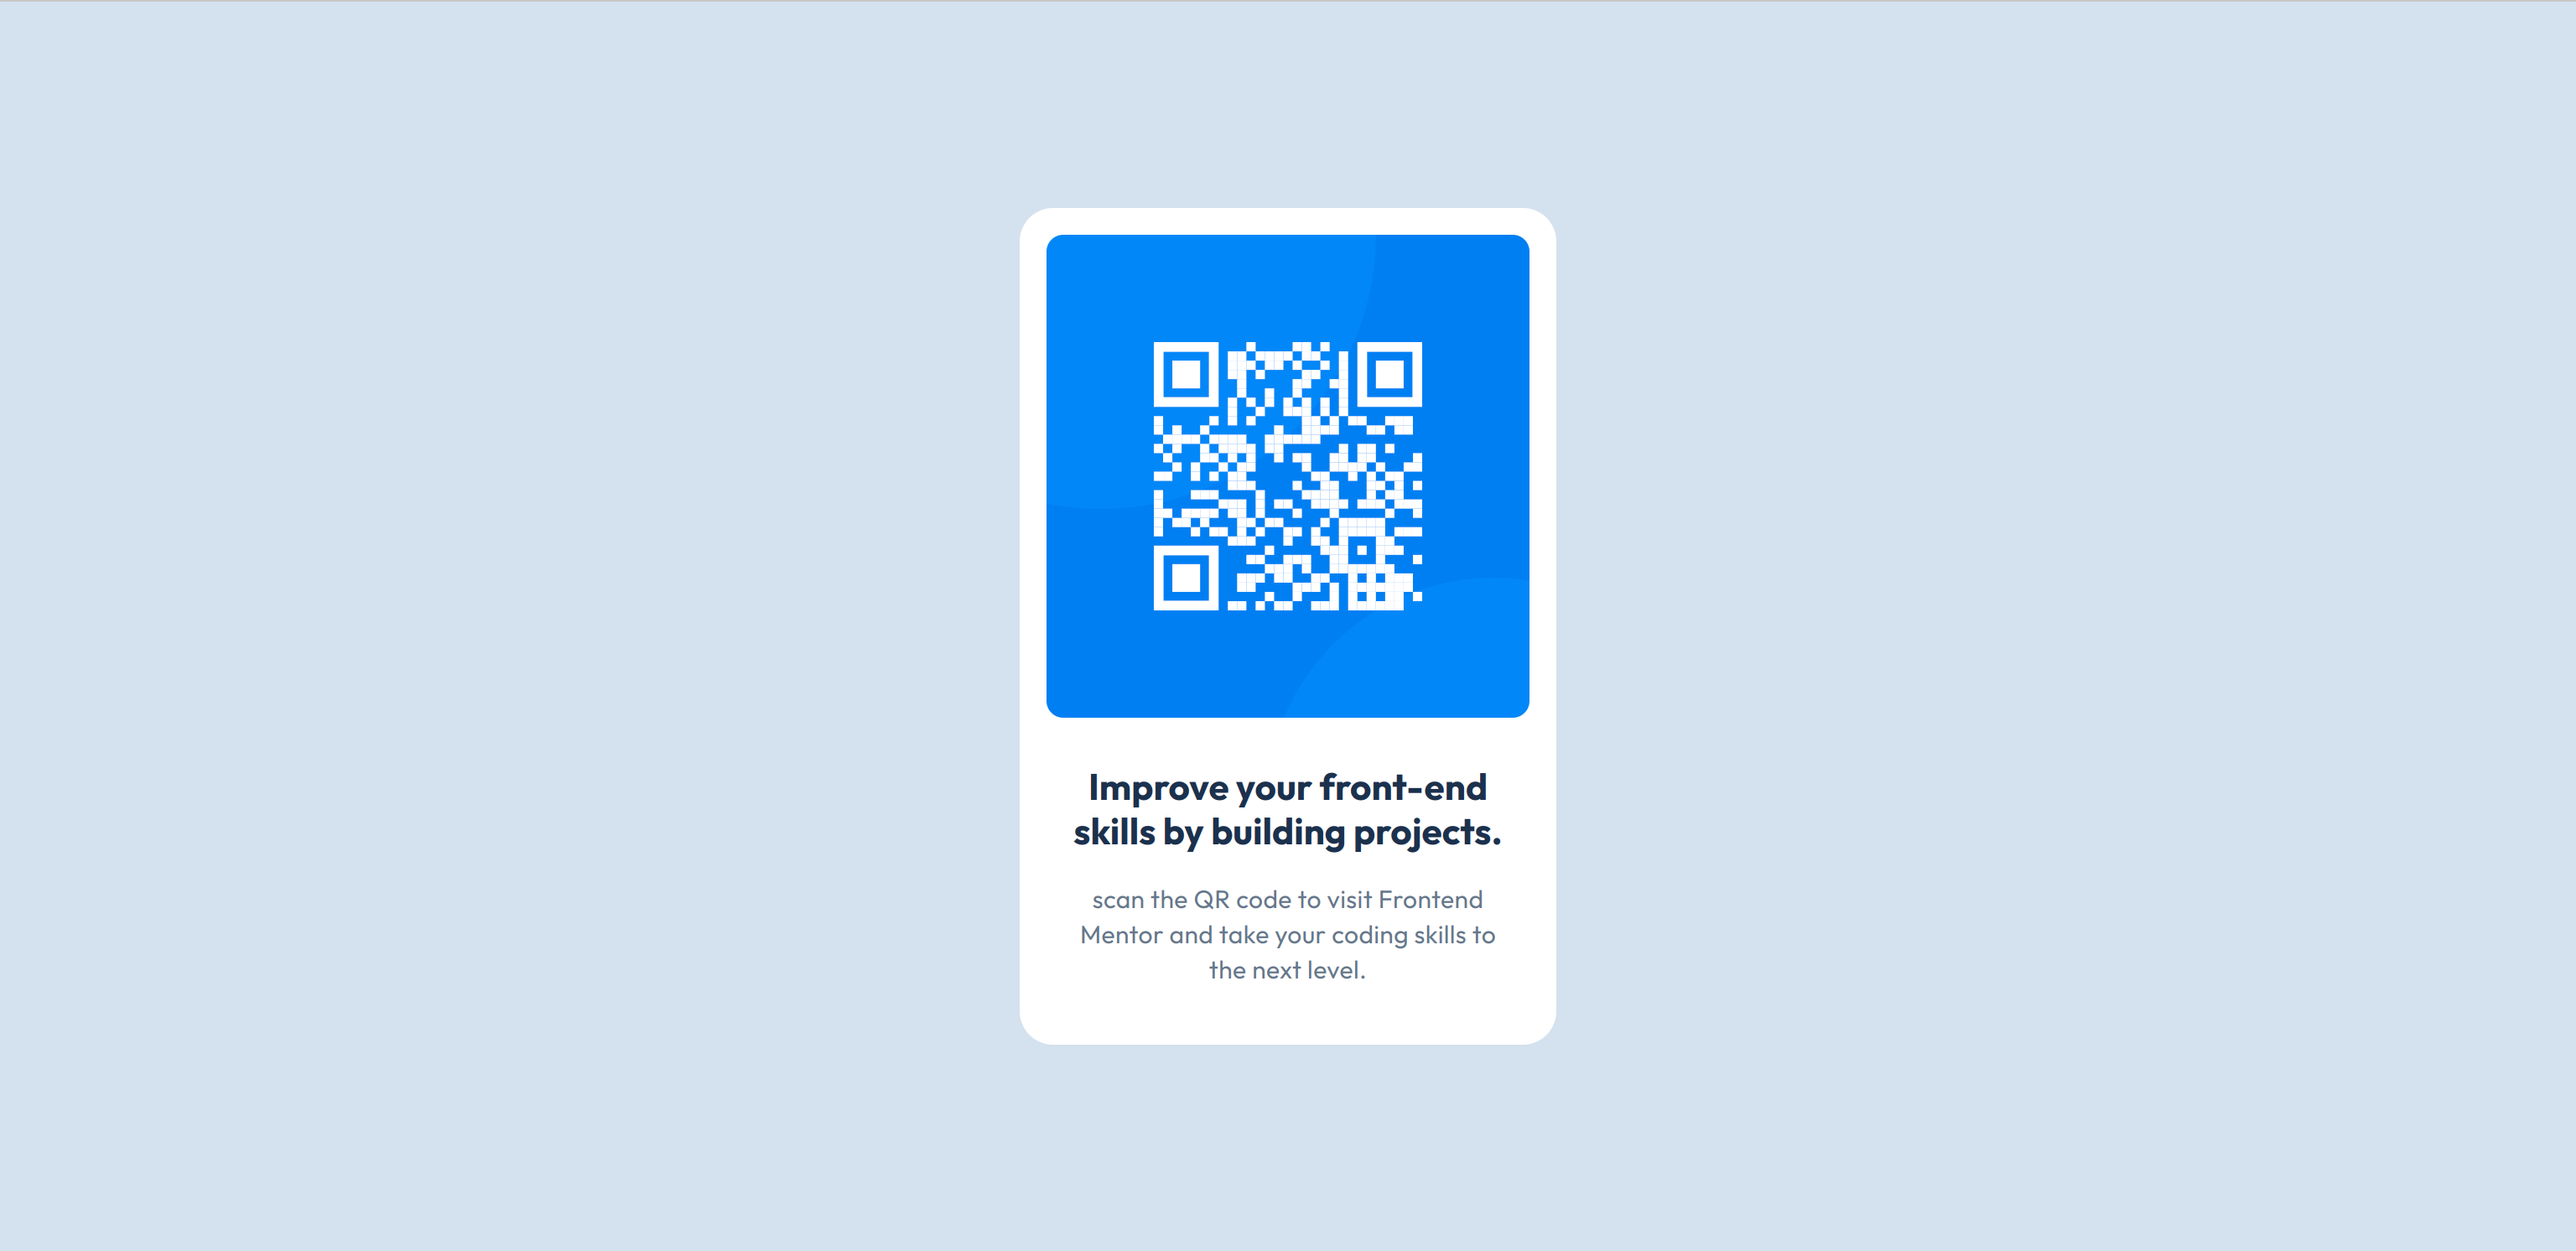
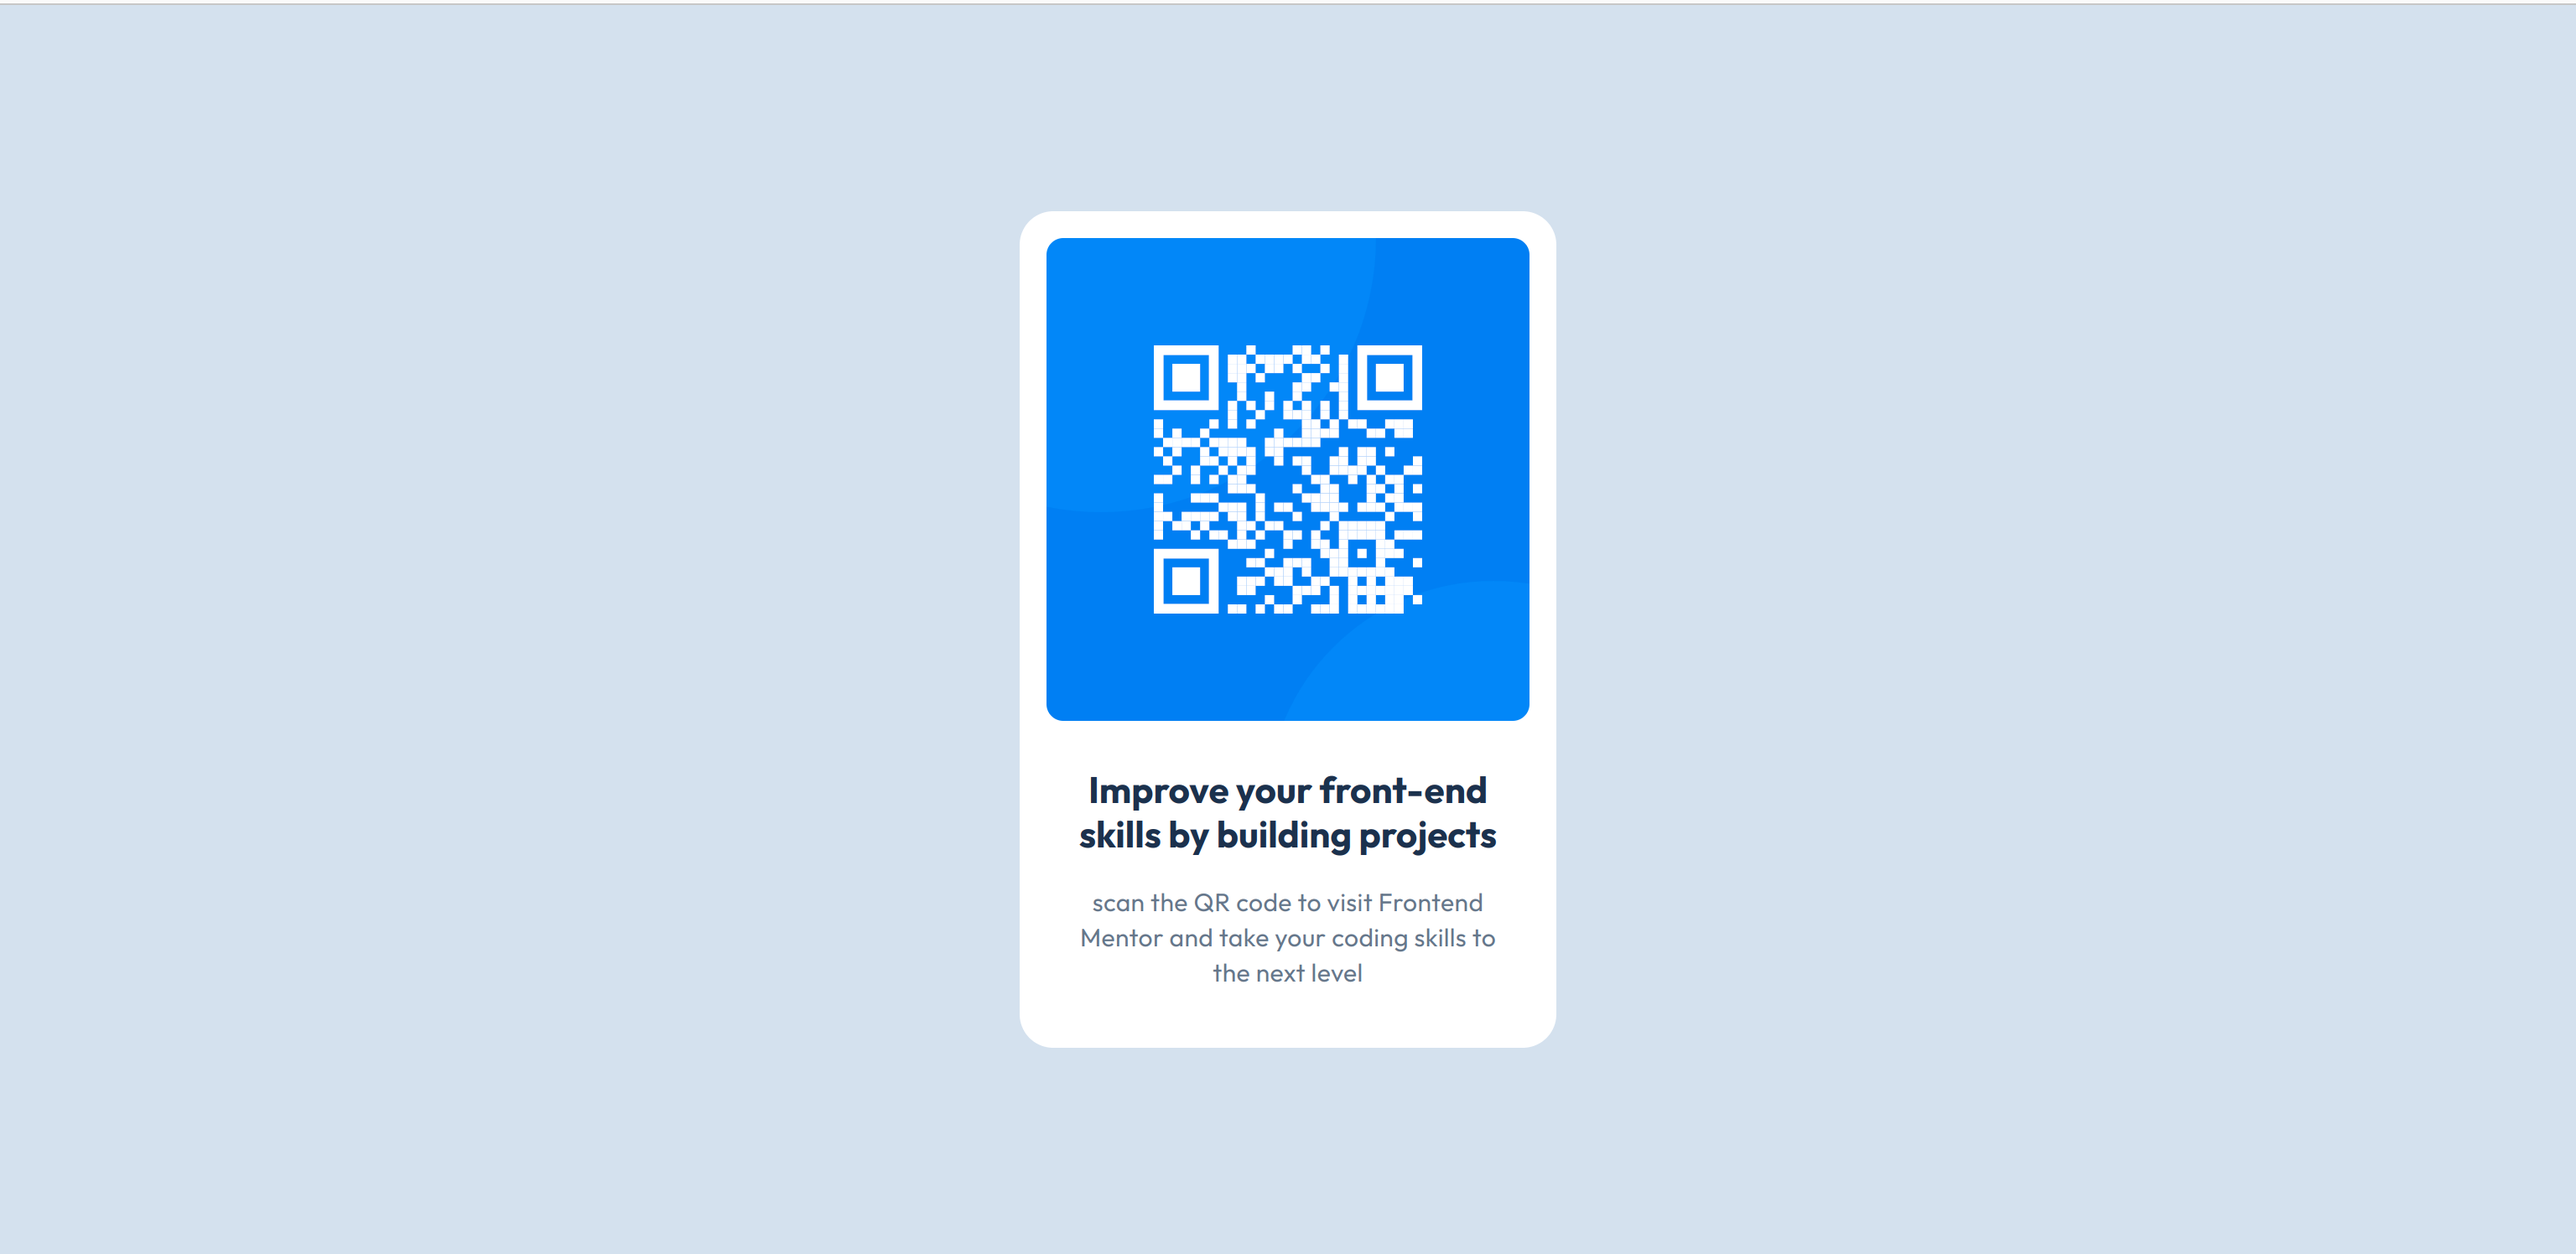
updated design and desktop-desing.png screenshot

diff --git a/index.html b/index.html
@@ -34,11 +34,11 @@
         />
         <div class="tagline">
           <h2 class="headline">
-            Improve your front-end skills by building projects.
+            Improve your front-end skills by building projects
           </h2>
           <p>
             scan the QR code to visit Frontend Mentor and take your coding
-            skills to the next level.
+            skills to the next level
           </p>
         </div>
       </div>

diff --git a/style.css b/style.css
@@ -3,7 +3,7 @@
 :root {
   --main-background-color: #d5e1ef;
   --primary-color-text: #1f314f;
-  --secondary-color-text: #1f314f;
+  --secondary-color-text: #68778d;
 }
 
 * {
@@ -39,6 +39,8 @@
 }
 
 .tagline {
+  width: 288px;
+  height: 131px;
   padding: 0 16px;
 }
 .headline {
